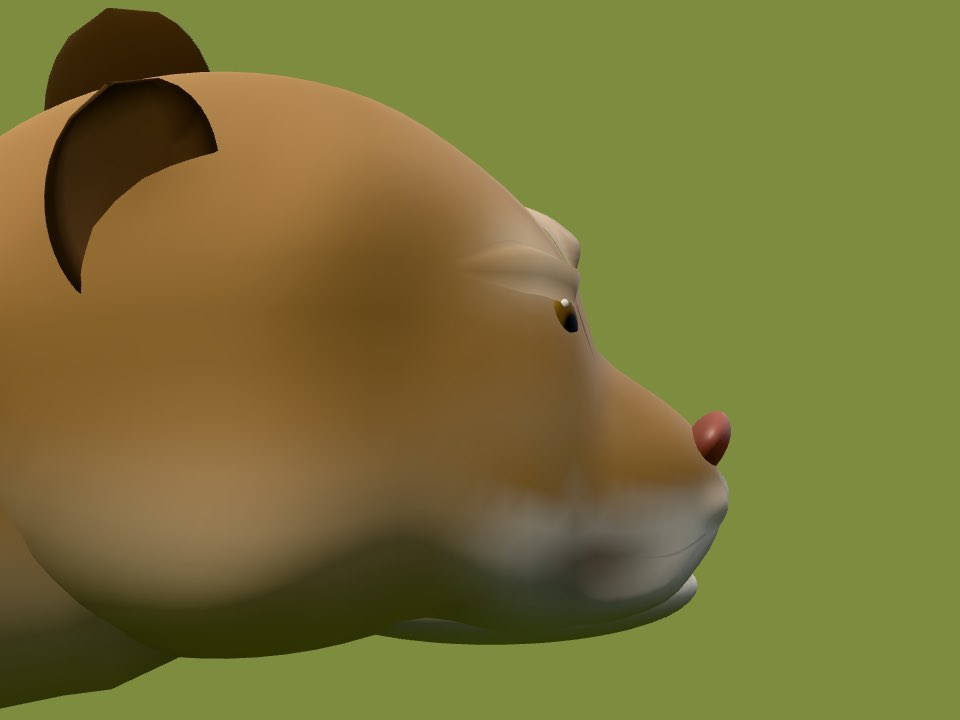
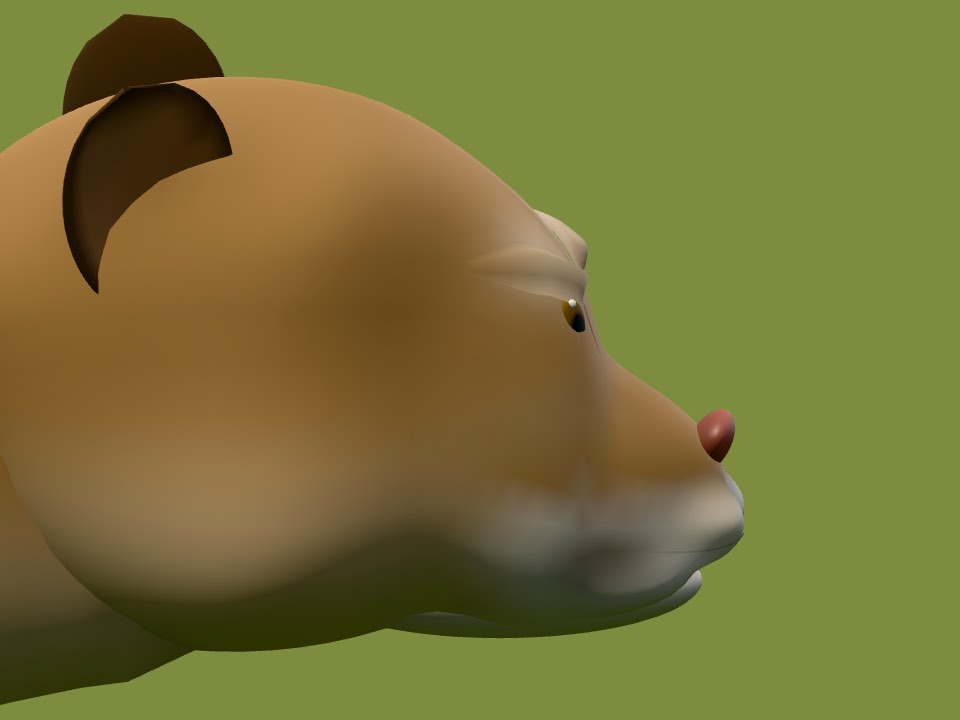
Cougar whisker pads large enough to form the muzzle's front, the mouth line laid over them (Cole)

diff --git a/js/render3d/animals/quadrupeds.js b/js/render3d/animals/quadrupeds.js
@@ -731,12 +731,14 @@ const MAMMALS = {
           for (let i = first; i < m.parts.length; i++) m.parts[i].userData = { ...m.parts[i].userData, eye: true };
           // two whisker pads under the nose, either side of a small cleft: soft swellings of the muzzle itself
           const mzIn = [sn[0] + H * 0.15 * hs * 0.3, sn[1], 0];
-          for (const side of [1, -1]) surfacePatch(m, [m.headGeo], mzIn, [noseX - r * 0.55, nc[1] - r * 1.05, side * r * 0.72], { ...hd, r: [r * 0.85, r * 0.68], lift: r * 0.26, color: s.belly, strength: 0.3 });
+          const padsFrom = m.parts.length;
+          for (const side of [1, -1]) surfacePatch(m, [m.headGeo], mzIn, [noseX - r * 0.8, nc[1] - r * 1.35, side * r * 1.0], { ...hd, r: [r * 1.4, r * 1.15], lift: r * 0.75, rings: 6, segs: 16, color: s.belly, strength: 0.3 }); // (big enough that the two together make the front of the muzzle, as a real cougar's do)
           // the mouth: a short soft line on the muzzle, down from the nose between the pads (the cleft),
           // then back under each pad to the corner of the mouth
           const mf = [sn[0] + H * 0.15 * hs * 0.3, sn[1], 0], ny = nc[1] - r * 0.45, cy = nc[1] - r * 1.15;
-          surfaceStrip(m, [m.headGeo], mf, [[noseX - r * 0.15, ny, 0], [noseX - r * 0.2, (ny + cy) / 2, 0], [noseX - r * 0.25, cy, 0]], { ...hd, width: r * 0.1, strength: [0.35, 0.4, 0.45], color: '#3a2a20' });
-          for (const side of [1, -1]) surfaceStrip(m, [m.headGeo], mf, [[noseX - r * 0.25, cy, 0], [noseX - r * 0.7, cy - r * 0.3, side * r * 0.8], [noseX - r * 1.45, cy - r * 0.5, side * r * 1.35], [noseX - r * 2.1, cy - r * 0.45, side * r * 1.65]],
+          const muzzleTop = [m.headGeo, ...m.parts.slice(padsFrom, padsFrom + 2)]; // (the mouth line lies over the pads)
+          surfaceStrip(m, muzzleTop, mf, [[noseX - r * 0.15, ny, 0], [noseX - r * 0.2, (ny + cy) / 2, 0], [noseX - r * 0.25, cy, 0]], { ...hd, width: r * 0.1, strength: [0.35, 0.4, 0.45], color: '#3a2a20' });
+          for (const side of [1, -1]) surfaceStrip(m, muzzleTop, mf, [[noseX - r * 0.25, cy, 0], [noseX - r * 0.7, cy - r * 0.3, side * r * 0.8], [noseX - r * 1.45, cy - r * 0.5, side * r * 1.35], [noseX - r * 2.1, cy - r * 0.45, side * r * 1.65]],
             { ...hd, width: [r * 0.1, r * 0.09, r * 0.08, r * 0.06], strength: [0.4, 0.35, 0.22, 0], color: '#3a2a20' });
         }
         if (k) m.ell([hp[0] + hr[0] * 0.78 + H * 0.15 * hs * 1.18, hp[1] - hr[1] * 0.17, 0], [H * 0.045, H * 0.035, H * 0.075], '#34251d', hd);

diff --git a/docs/ideas/2026-11-27-cougar-face/README.md b/docs/ideas/2026-11-27-cougar-face/README.md
@@ -20,7 +20,7 @@ Body
 - Paws: compact, narrower and rounder (`pawW`, `pawH`), four toes (`toes: 4`); no cuff at the ankle.
 
 Muzzle, third round (pictures `-muzzle`)
-- Two subtle, distinct whisker pads grown out of the muzzle (`surfacePatch`: a round swelling cast onto
+- Two whisker pads grown out of the muzzle, large enough that together they make its front (Cole: "too small, they should form the muzzle like a real cougar") (`surfacePatch`: a round swelling cast onto
   the head, rim in the surface's own colour and facing), either side of a small cleft (`cleft` dips the
   midline between the loft's `pads`); the mouth line thinner and fainter.
 - The muzzle narrows toward the nose (`muzzleTaper` 0.85) and runs more softly back into the cheeks
